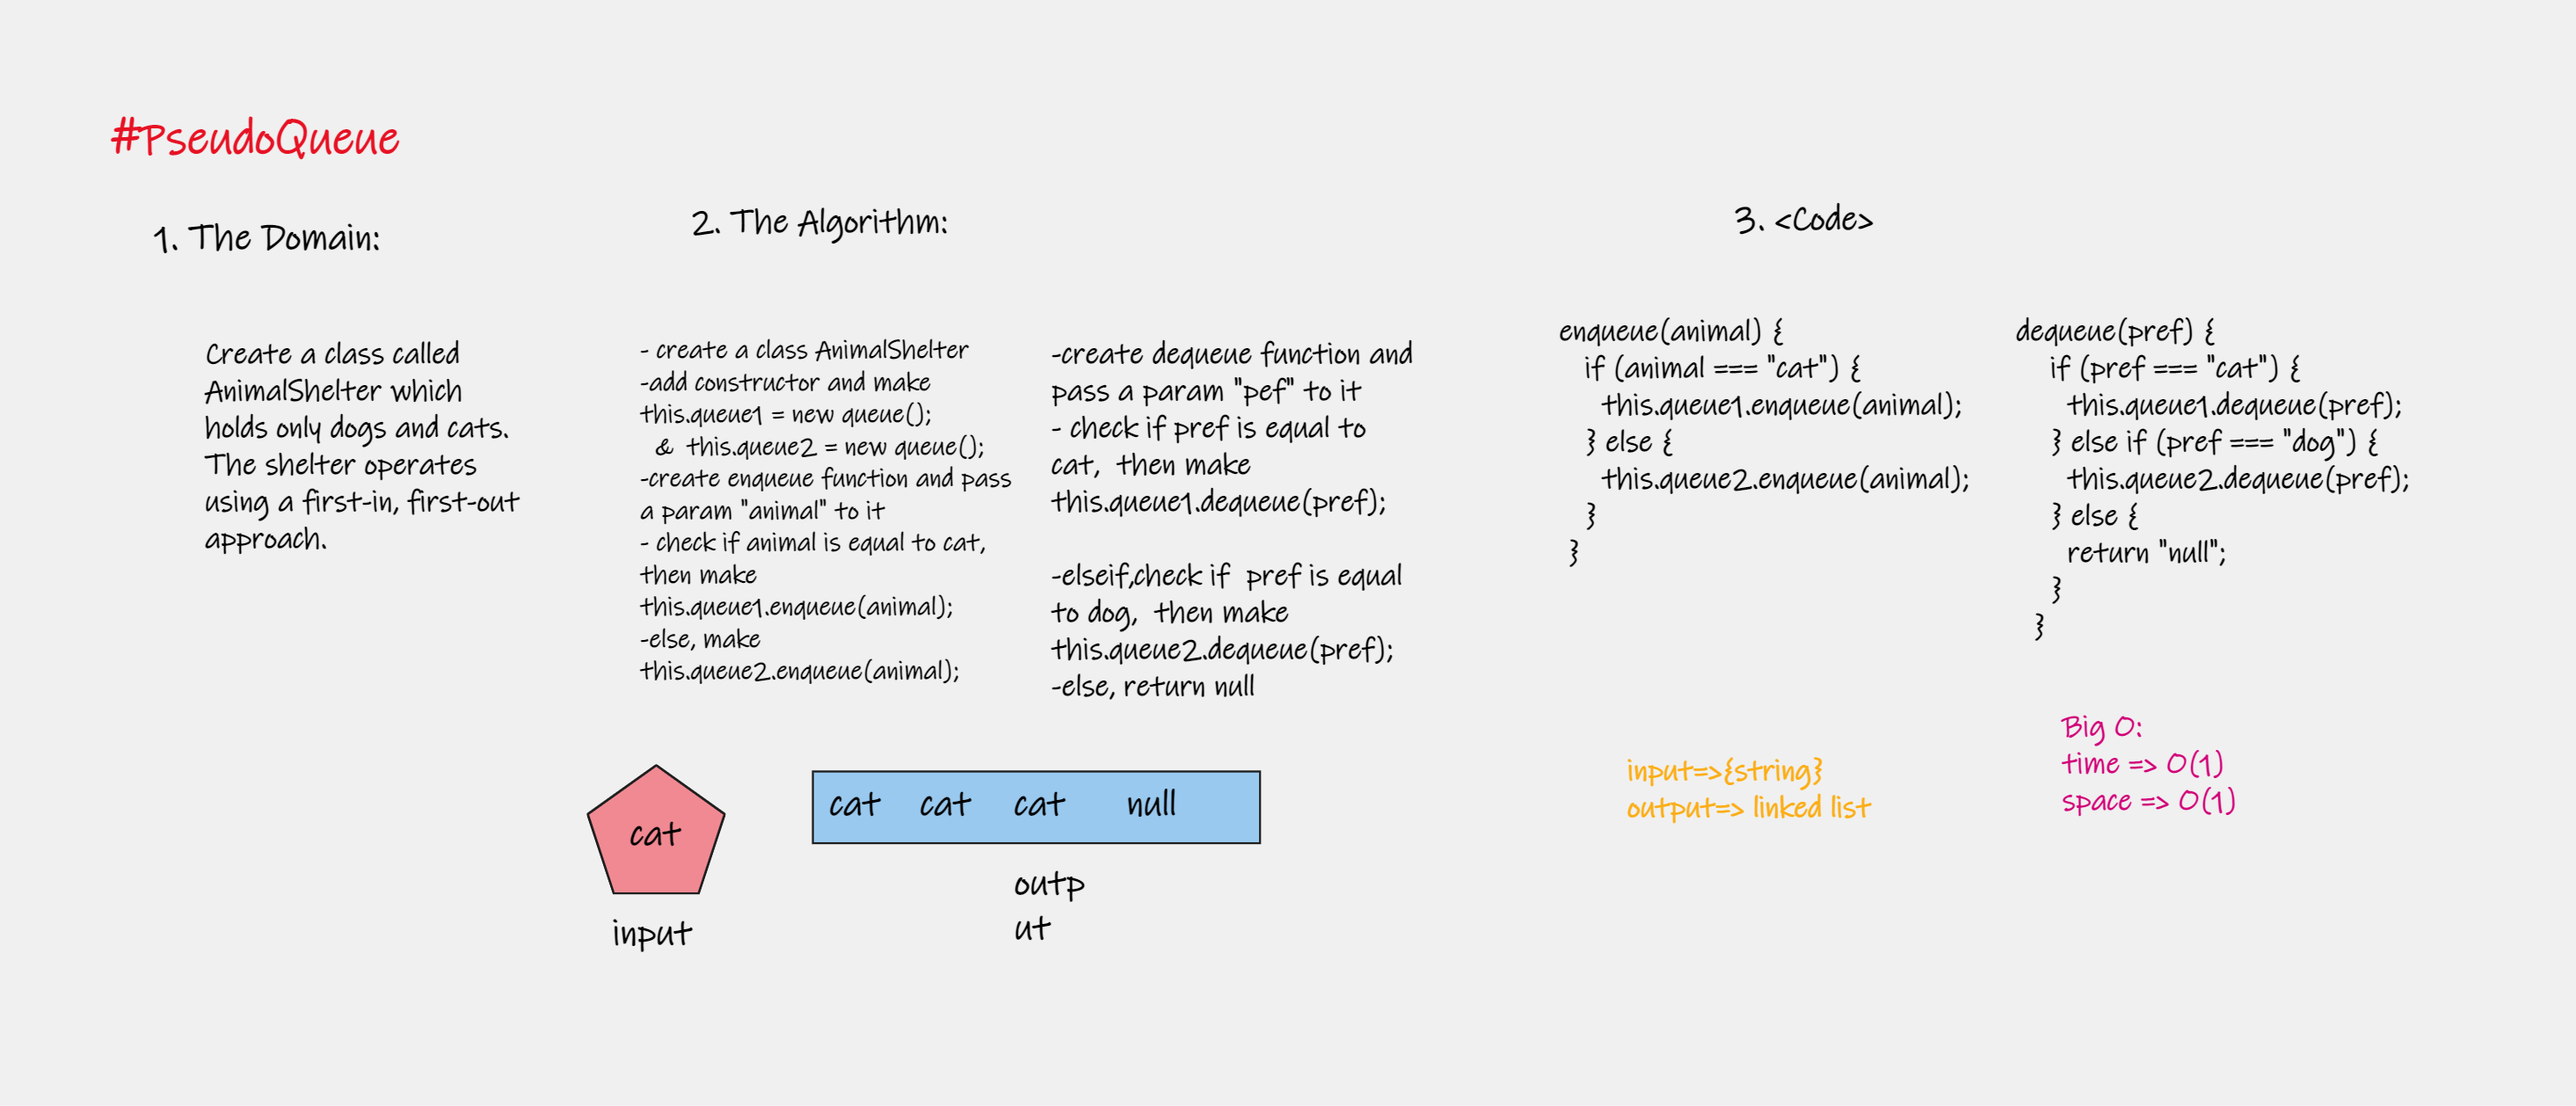
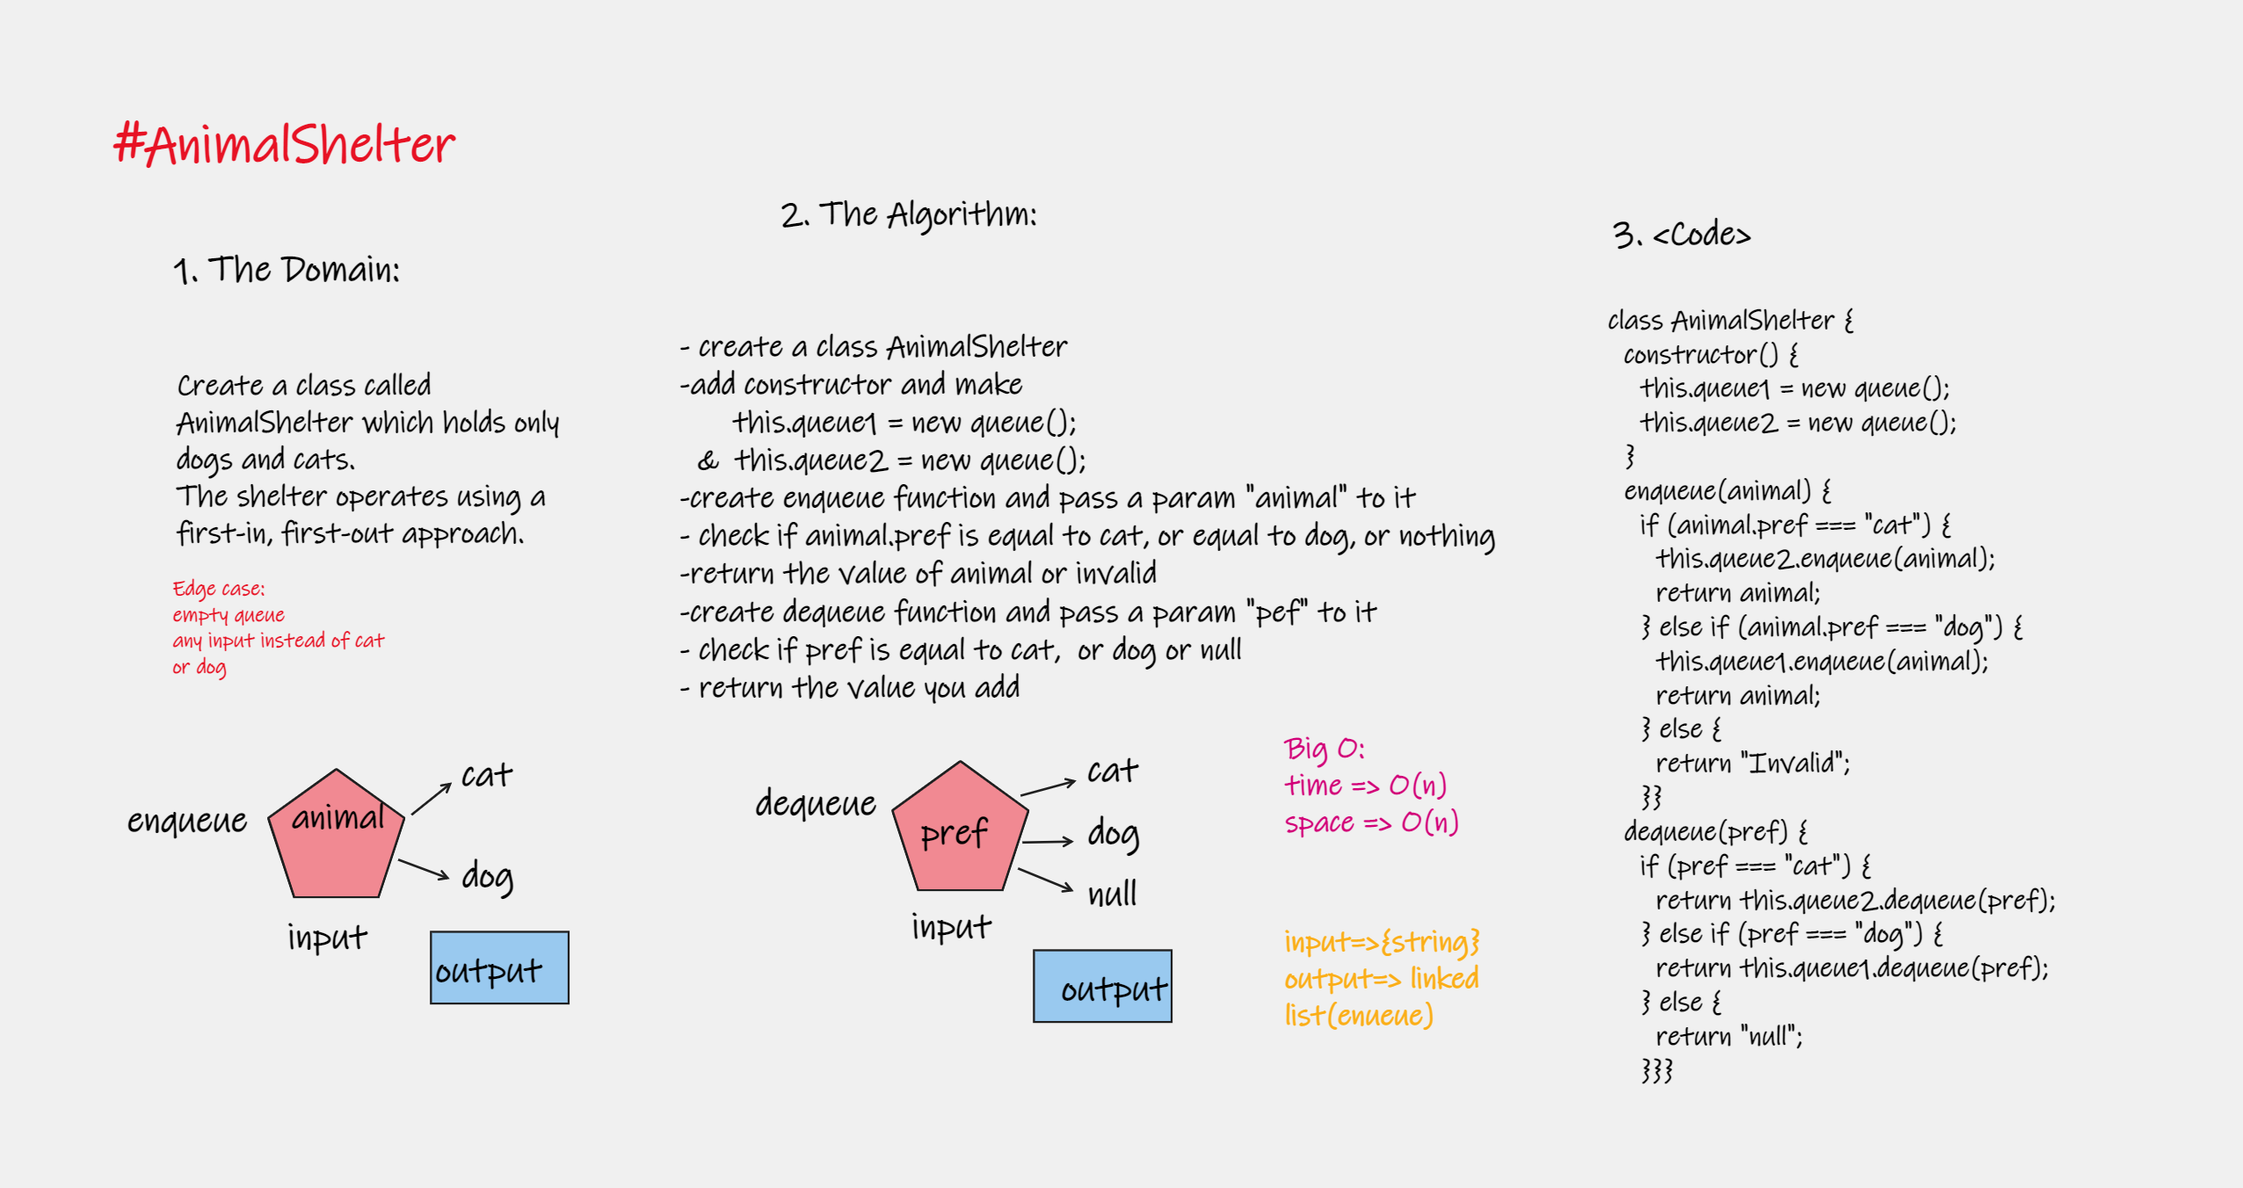
add ch12

diff --git a/javascript/stack-and-queue/__test__/animalShelter.test.js b/javascript/stack-and-queue/__test__/animalShelter.test.js
@@ -1,0 +1,37 @@
+"use strict";
+
+const animalShelter = require("../animalShelter");
+
+describe("test AnimalShelter  ", () => {
+  it("enqueue cat ", () => {
+    const newQueue = new animalShelter();
+    let testAnimal = { pref: "cat" };
+
+    expect(newQueue.enqueue(testAnimal)).toMatchObject(testAnimal);
+  });
+
+  it("test Invalid input ", () => {
+    const newQueue = new animalShelter();
+    let testAnimal = { pref: "lion" };
+
+    expect(newQueue.enqueue(testAnimal)).toBe("Invalid");
+  });
+
+  it("dequeue a cat ", () => {
+    const newQueue = new animalShelter();
+    let testAnimal = { pref: "cat" };
+
+    newQueue.enqueue(testAnimal);
+
+    expect(newQueue.dequeue("cat")).toMatchObject(testAnimal);
+  });
+
+  it("dequeue a dog ", () => {
+    const newQueue = new animalShelter();
+    let testAnimal1 = { pref: "dog" };
+
+    newQueue.enqueue(testAnimal1);
+
+    expect(newQueue.dequeue("dog")).toMatchObject(testAnimal1);
+  });
+});

diff --git a/javascript/stack-and-queue/animalShelter.js b/javascript/stack-and-queue/animalShelter.js
@@ -1,4 +1,5 @@
 "use strict";
+
 const queue = require("./queue");
 
 class AnimalShelter {
@@ -8,18 +9,22 @@ class AnimalShelter {
   }
 
   enqueue(animal) {
-    if (animal === "cat") {
-      this.queue1.enqueue(animal);
-    } else {
+    if (animal.pref === "cat") {
       this.queue2.enqueue(animal);
+      return animal;
+    } else if (animal.pref === "dog") {
+      this.queue1.enqueue(animal);
+      return animal;
+    } else {
+      return "Invalid";
     }
   }
 
   dequeue(pref) {
     if (pref === "cat") {
-      this.queue1.dequeue(pref);
+      return this.queue2.dequeue(pref);
     } else if (pref === "dog") {
-      this.queue2.dequeue(pref);
+      return this.queue1.dequeue(pref);
     } else {
       return "null";
     }

diff --git a/javascript/stack-and-queue/read/animal.md b/javascript/stack-and-queue/read/animal.md
@@ -9,13 +9,13 @@ Implement the following methods: enqueue,dequeue
 
 1. Create Methods:
    - enqueue
-Arguments: animal
-animal can be either a dog or a cat object.
-dequeue
-Arguments: pref
-pref can be either "dog" or "cat"
-Return: either a dog or a cat, based on preference.
-If pref is not "dog" or "cat" then return null.
+      Arguments: animal
+      animal can be either a dog or a cat object.
+   - dequeue
+      Arguments: pref
+      pref can be either "dog" or "cat"
+      Return: either a dog or a cat, based on preference.
+      If pref is not "dog" or "cat" then return null.
 
 2. Write tests to prove the following functionality
 
@@ -23,12 +23,12 @@ If pref is not "dog" or "cat" then return null.
 
 | method|Time complexity |Space complexity | 
 | :---: | :---: | :---: |
-| enqueue|O(1): because used if | O(1)|
-| dequeue|O(1): |O(1) |
+| enqueue|O(n): because used if | O(n)|
+| dequeue|O(n): |O(n) |
 
 ## Whiteboard Process
 
-![link list](./../assets/animal.png)
+![AnimalShelter](./../../linked-list/assets/animal.png)
 
 
 

diff --git a/javascript/tree/read/max.md b/javascript/tree/read/max.md
@@ -1,0 +1,27 @@
+# Implementation: tree-max
+
+Write the following method for the Binary Tree class
+
+Find the maximum value stored in the tree. You can assume that the values stored in the Binary Tree will be numeric.
+
+## Features
+
+1. find maximum value
+Arguments: none
+Returns: number
+
+2. Write tests to prove the following functionality
+
+## Approach & Efficiency
+
+| method|Time complexity |Space complexity | 
+| :---: | :---: | :---: |
+| max|O(n): | O(n)|
+
+
+## Whiteboard Process
+
+![max]()
+
+
+

diff --git a/javascript/README.md b/javascript/README.md
@@ -14,7 +14,7 @@
 | 08 | [Stack-/queue](./stack-and-queue/read/stack.md) |
 | 09 | [pseudo](./stack-and-queue/read/pseudo.md) |
 | 10 | [Animal-Shelter](./stack-and-queue/read/animal.md) |
-| 11 | [brackes](./stack-and-queue/read/brackets.md) |
+
 
 
 
